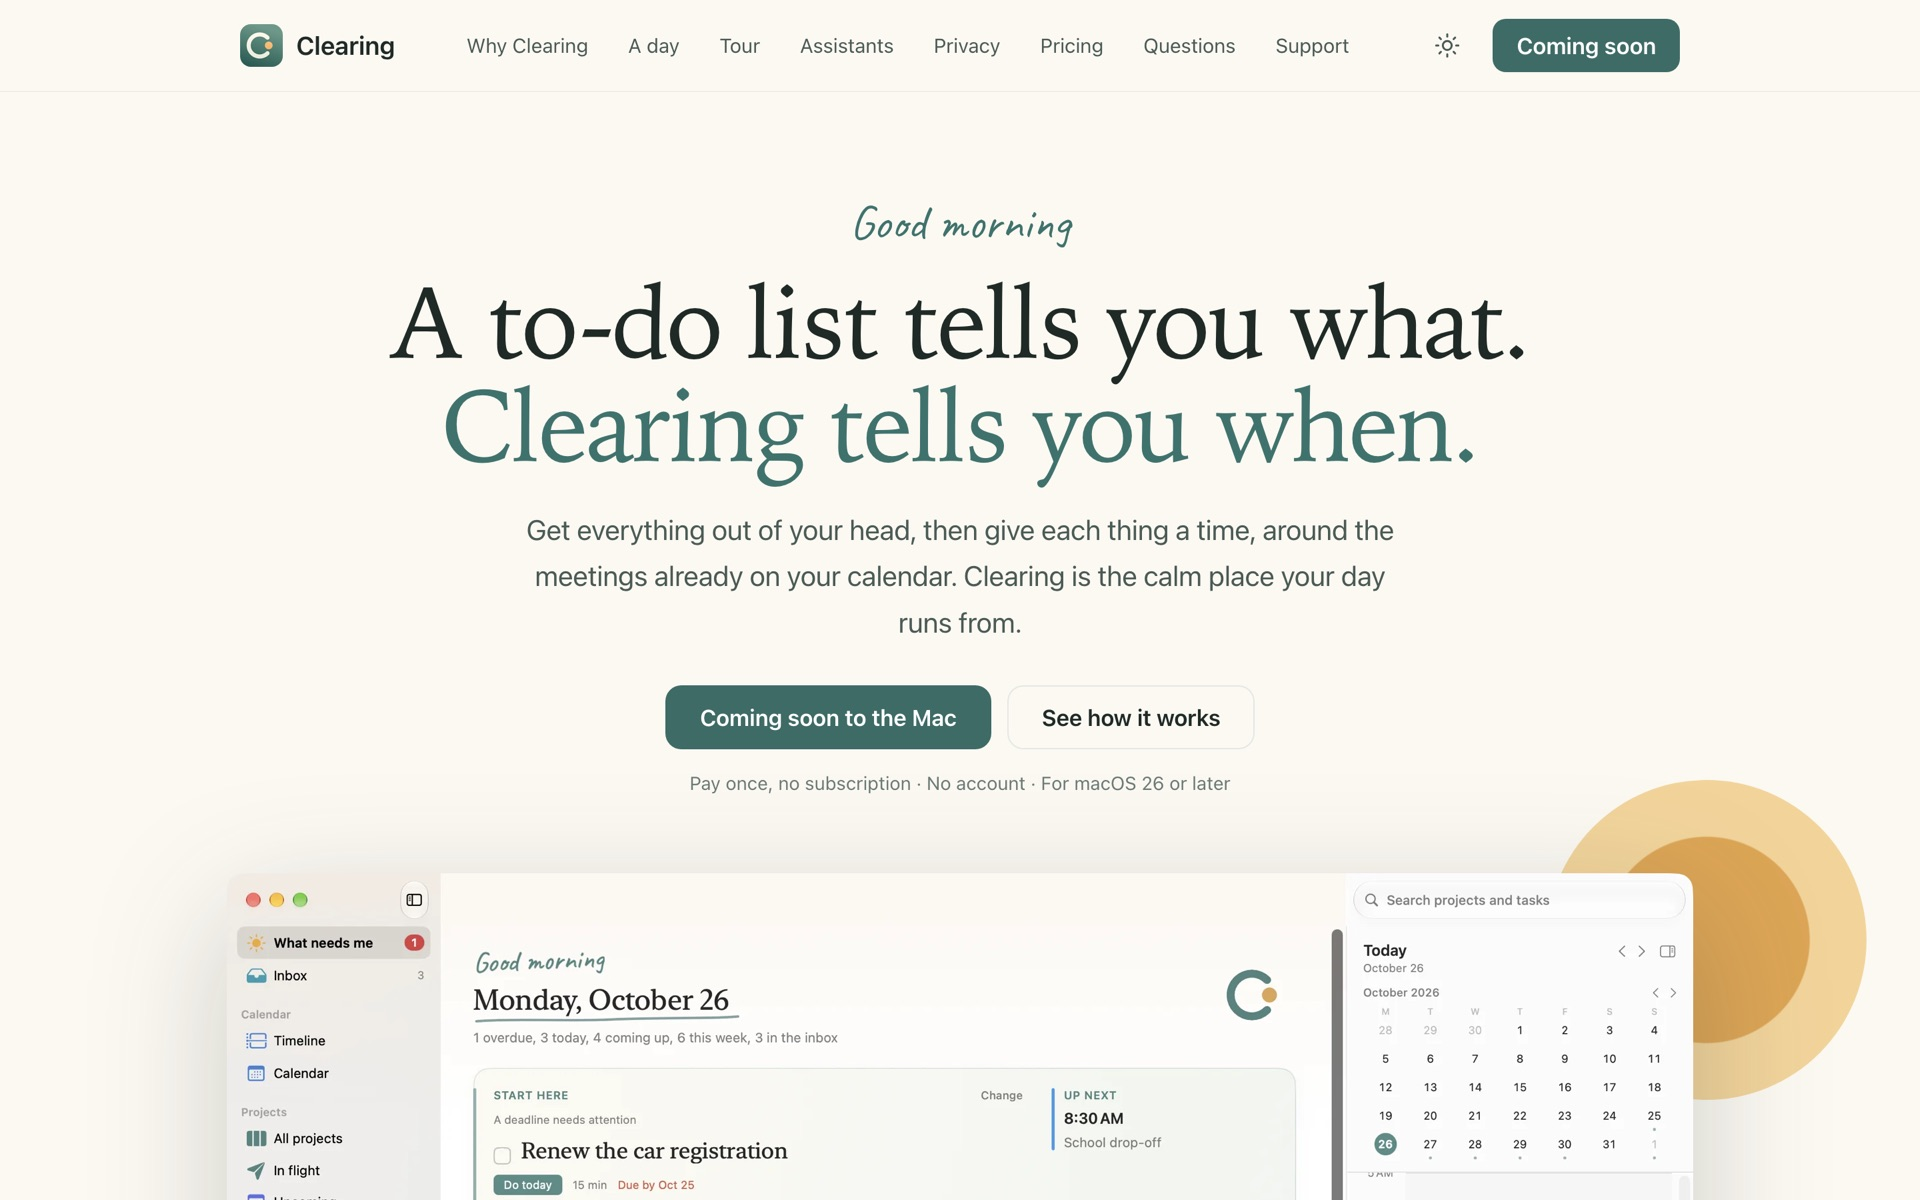
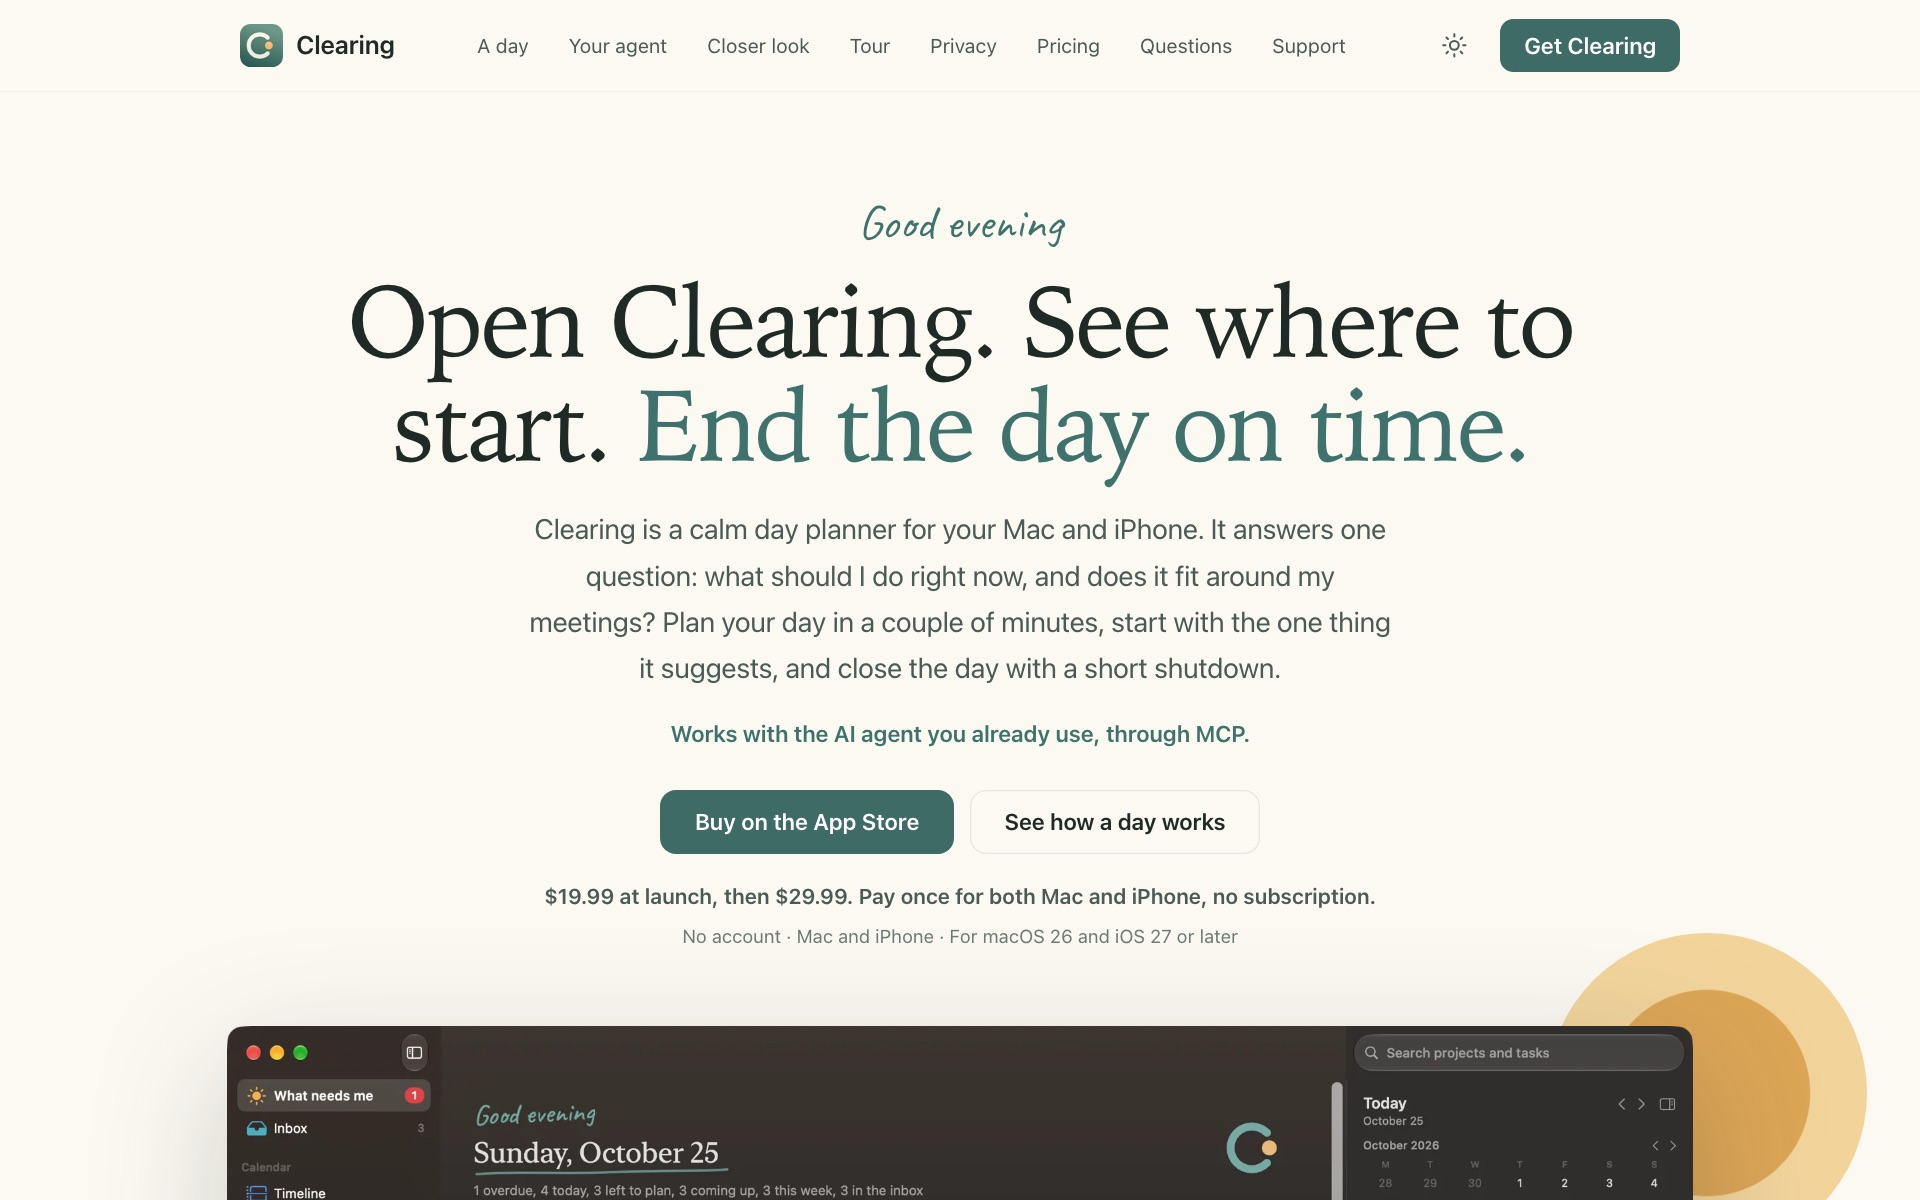
Show Clearing as live on the App Store on the projects page
Clearing is out for Mac, iPhone, and iPad. Mark it Active, link to the
App Store and the launch post, list all three platforms, and swap the
old "coming soon" screenshot for the current site.

diff --git a/app/data/projects.ts b/app/data/projects.ts
@@ -8,23 +8,25 @@ export const projects: Project[] = [
     group: 'apps',
     icon: 'clearing.png',
     tagline: 'A to-do list tells you what. Clearing tells you when.',
-    description: 'A calm Mac planner that holds everything that needs me, so my head doesn\'t have to.',
+    description: 'A calm planner for Mac, iPhone, and iPad that holds everything that needs me, so my head doesn\'t have to. Live on the App Store now.',
     image: 'clearing.jpg',
     frame: 'browser',
     frameLabel: 'clearingplanner.com',
     since: '2026',
     story: {
       why: 'I run a job, a content business, conference travel, a family, and a house. My work lived in a Notion calendar. The rest of my life lived in an Apple Notes list. Neither one told me what needed attention, so my head kept checking.',
-      built: 'A Mac app that opens to one screen: what needs me. Overdue, due soon, planned for this week, and the inbox. Around it sit a timeline of my day, time blocks, a weekly review, and an end-of-day shutdown. An iPhone version is next.',
+      built: 'An app that opens to one screen: what needs me. Overdue, due soon, planned for this week, and the inbox. Around it sit a timeline of my day, time blocks, a weekly review, and an end-of-day shutdown. It is live on the App Store for Mac, iPhone, and iPad. One purchase covers all three, and your plans sync through your own iCloud.',
       learned: 'It borrows from Cal Newport\'s deep work and the GTD capture habit, without enforcing either. Rituals are tools to use when they help, not rules.'
     },
     stats: [
       { label: 'Commits', value: '405' },
-      { label: 'Platform', value: 'macOS' }
+      { label: 'Platforms', value: 'Mac, iPhone, iPad' }
     ],
     techStack: ['Swift', 'SwiftUI'],
-    url: 'https://clearingplanner.com',
-    status: 'in-progress'
+    url: 'https://apps.apple.com/us/app/clearing-calm-day-planner/id6826955896',
+    urlLabel: 'Get it on the App Store',
+    post: { title: 'I Built a Mac and iPhone Planner With a Built-In MCP Server', url: '/blog/2026/11/10/mac-iphone-planner-built-in-mcp-server' },
+    status: 'active'
   },
   {
     slug: 'publishwell',
